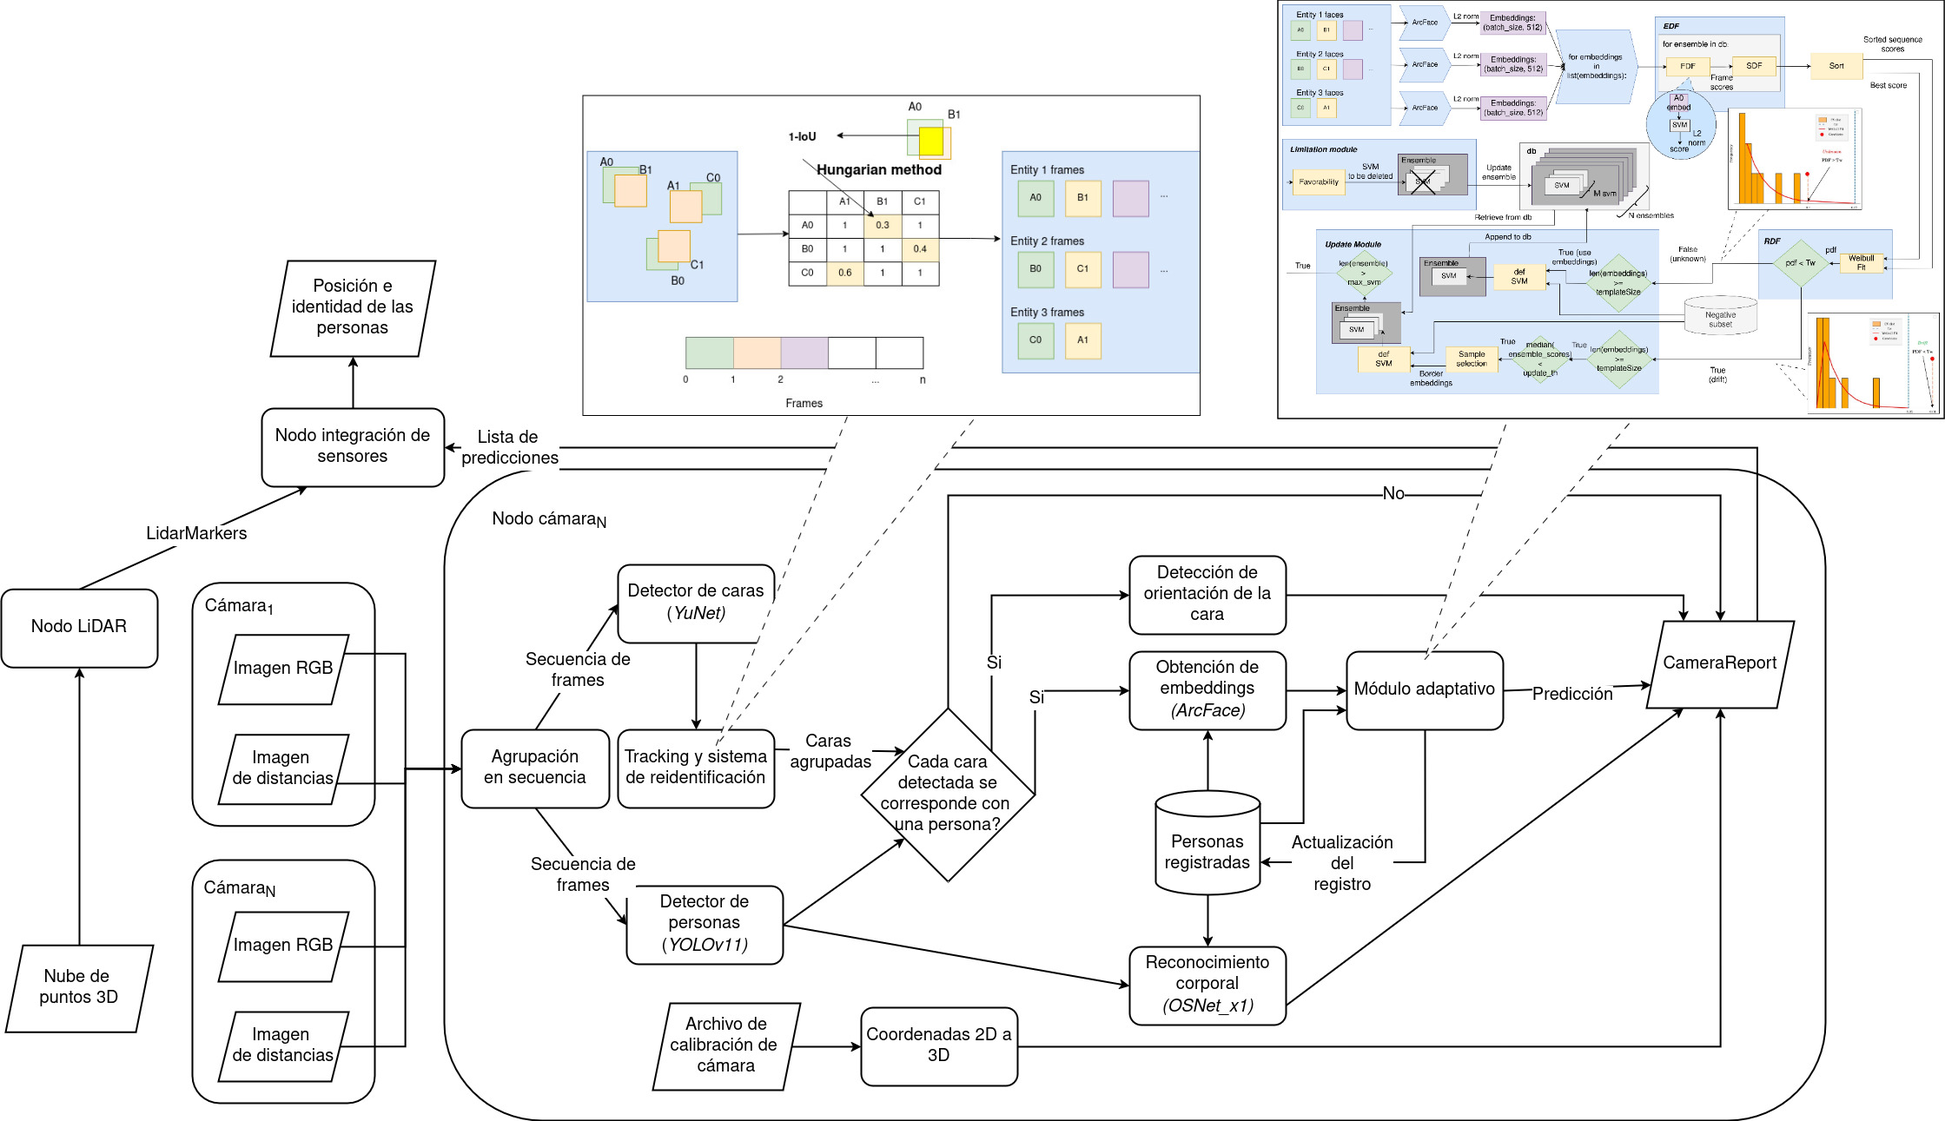
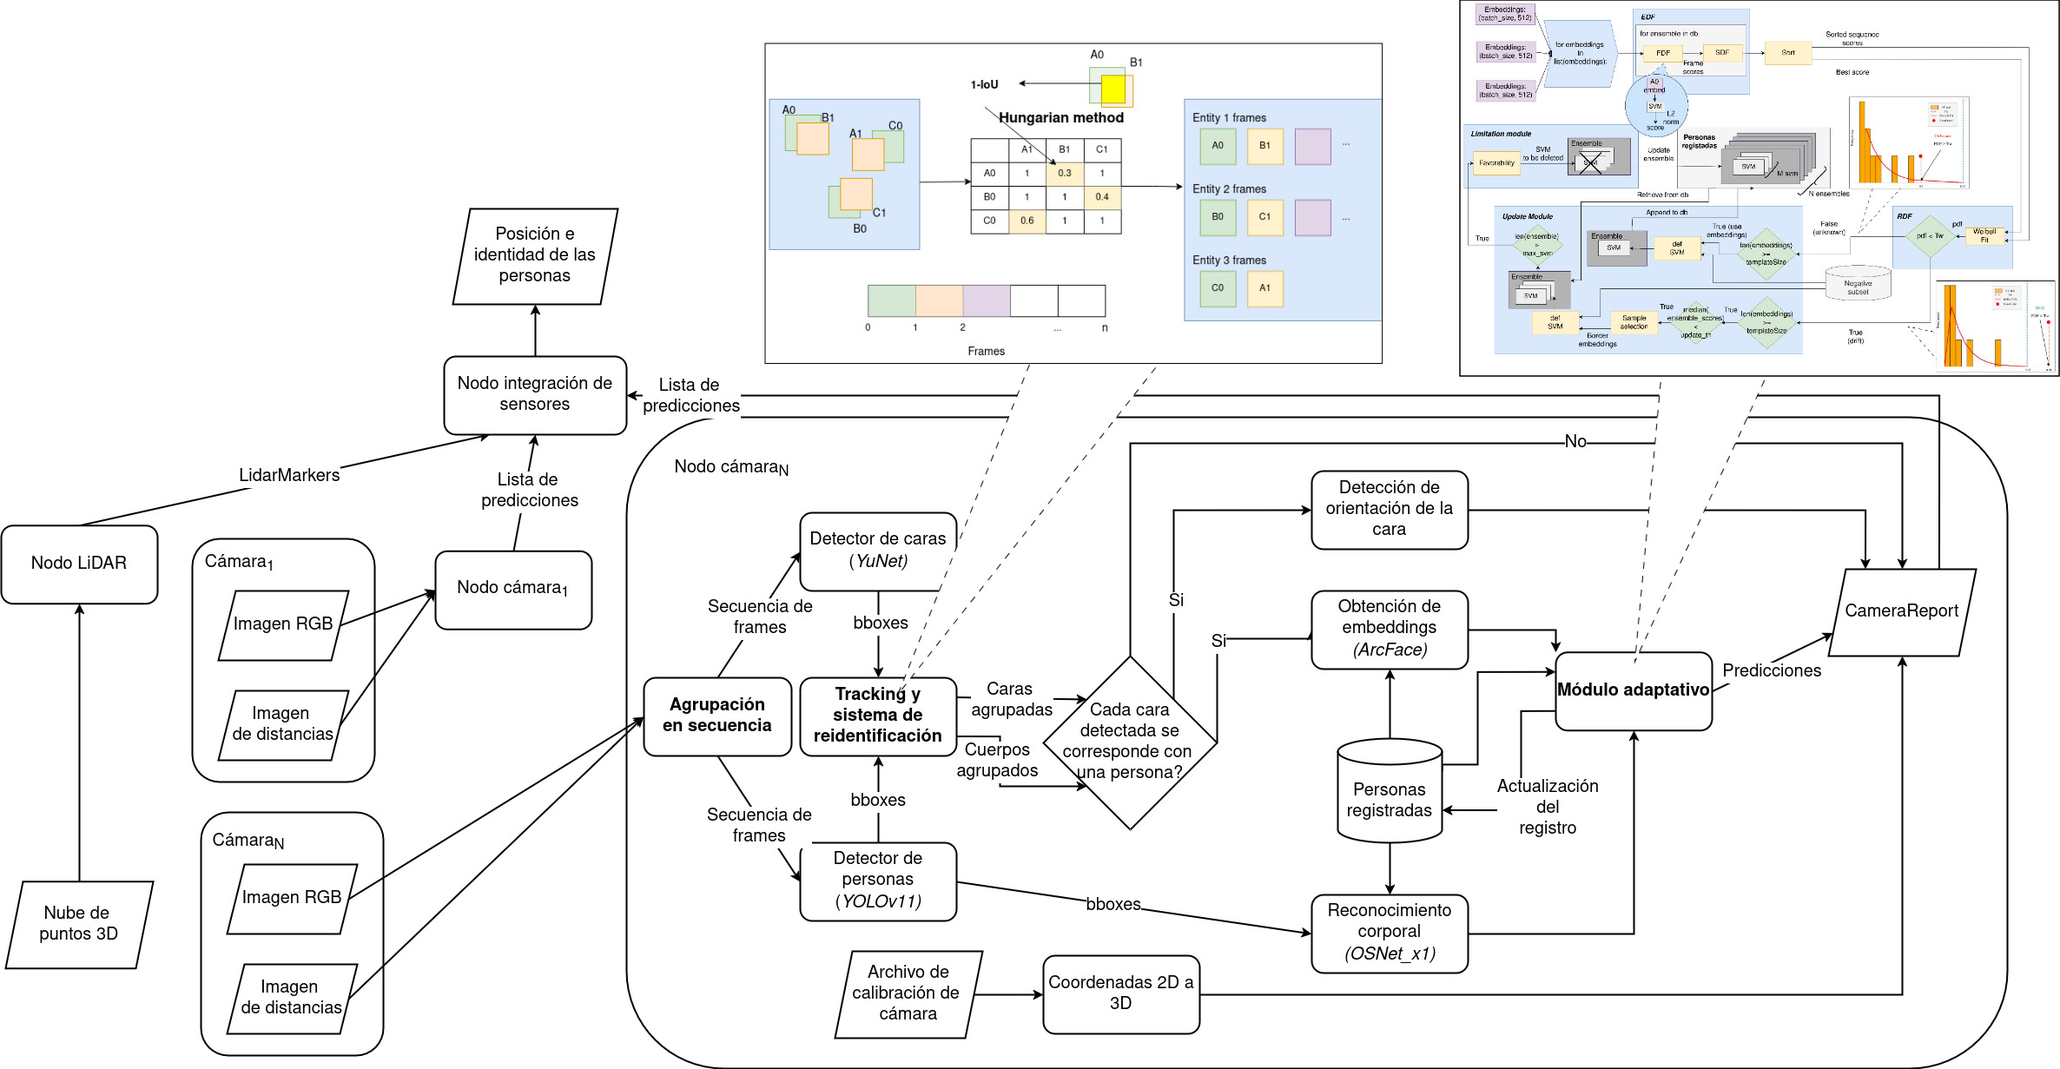
Lit bit of arch

diff --git a/TFM/contenido/5arch.tex b/TFM/contenido/5arch.tex
@@ -1,30 +1,30 @@
 \chapter{Arquitectura del sistema propuesto}
 \label{chap:sysarch}
-\lettrine{E}{n} este capítulo se expone la arquitectura planteada, así como los detalles de su implementación.
+\lettrine{E}{n} este capítulo se expone una idea general de la arquitectura planteada y se comentan sus componentes en detalle.
 
 Este proyecto parte de un sistema que detecta y reconoce personas a partir de la información de diferentes sensores, de forma que se obtienen reconocimientos robustos y persistentes en el tiempo \cite{andrew}.
 
-El funcionamiento se muestra en la figura \ref{fig:finalsys}. Se recibe la información de una o múltiples cámaras, que son procesadas por un nodo que devuelve una lista de predicciones de los individuos en escena(nodo cámara). Cada detección se etiqueta con su posición \acrshort{3d} a partir de la imagen de distancia de la cámara. Los resultados obtenidos de la anterior fase se contrastan con las detecciones realizadas por un modelo que procesa una \gls{pcl} otorgada por un sensor \acrshort{lidar} (nodo \acrshort{lidar}). Finalmente, las salidas de ambos nodos se fusionan para reforzar las predicciones (nodo integración de sensores).
+El funcionamiento se muestra en la figura \ref{fig:finalsys}. Se recibe la información de una o múltiples cámaras, que son procesadas por un nodo que devuelve una lista de predicciones de los individuos en escena (nodo cámara). Cada detección se etiqueta con su posición \acrshort{3d} a partir de la imagen de distancias de la cámara. Los resultados obtenidos de la anterior fase se contrastan con las detecciones realizadas por un modelo que procesa una \gls{pcl} otorgada por un sensor \acrshort{lidar} (nodo \acrshort{lidar}). Finalmente, las salidas de todos los nodos se fusionan para reforzar las predicciones (nodo integración de sensores).
 
-Dentro del nodo cámara se agrupan los frames en secuencias (o videos) con el fin de explotar la coherencia espacio-temporal. Los modelos \acrshort{cnn} de detección reciben dicha secuencia de frames y devuelven los recortes (o \glspl{bbox}) con las detecciones, que son agrupados por individuo aplicando un método de seguimiento (tracking) en el caso de los rostros. Los recortes de caras y cuerpos se transforman en vectores de características a partir de los respectivos modelos de reconocimiento, que a su vez sirven de entrada para el módulo adaptativo, que toma la decisión de reconocimiento y actualiza la base de datos de personas registrada.
+Dentro del nodo cámara se agrupan los frames en secuencias (o videos) con el fin de explotar la coherencia espacio-temporal. Los modelos \acrshort{cnn} de detección reciben dicha secuencia de frames y devuelven los recortes (o \glspl{bbox}) con las detecciones, que son agrupados por individuo aplicando un método de seguimiento (tracking). Los recortes de caras y cuerpos se transforman en vectores de características a partir de los respectivos modelos de reconocimiento, que a su vez sirven de entrada para el módulo adaptativo, que toma la decisión de reconocimiento y actualiza la base de datos de personas registrada.
 
-El módulo adaptativo es el encargado de otorgar el reconocimiento \textit{Open-Set} y/o \textit{Open-World}. El módulo evalúa si la persona detectada en la secuencia es un desconocido o pertenece a la base de datos. En ambos casos, el sistema se actualiza con la nueva información en forma de un nuevo registro en el sistema si es un desconocido o modificando el registro existente ante los cambios de la entidad (lo que se conoce como \textit{\textbf{concept-drift}}).
+El módulo adaptativo es el encargado de otorgar el reconocimiento \textit{Open-Set} y/o \textit{Open-World}. Dicho módulo evalúa si la persona detectada en la secuencia es un desconocido o pertenece a la base de datos. En ambos casos, el sistema se actualiza con la nueva información en forma de un nuevo registro en el sistema si es un desconocido o modificando el registro existente ante los cambios de la entidad (lo que se conoce como \textit{\textbf{concept-drift}}).
 
 Toda la arquitectura vista se ejecuta en el \textit{framework} \acrshort{ros} \cite{ROS}. \acrshort{ros} se encarga de crear los procesos para cada nodo, comprobar su estado, regular la frecuencia a la que trabajan, crear la red en la que dichos procesos intercambian mensajes, entre otros muchos detalles que resultan transparentes para el programador.
 
 \begin{figure}
     \centering
     \includegraphics[width=1\linewidth]{imagenes/FINALSYS.jpg}
-    \caption{Arquitectura general del sistema}
+    \caption{Arquitectura general del sistema, los módulos en negrita se corresponden con los nuevos componentes desarrollados.}
     \label{fig:finalsys}
 \end{figure}
 
 \section{Procesamiento de video}
 \label{sec:video}
-El sistema de partida trabaja a nivel de frame \cite{andrew}, es decir, devuelve reconocimientos de los individuos presentes en una sola imagen. Esta aproximación permite trabajar a altas frecuencias, sin embargo, las predicciones dependen enteramente de la calidad del frame (ejemplo: nivel de borrosidad). En este proyecto se ha optado por trabajar con \textbf{secuencias de frames (o video)}, de esta forma, se devuelve un reconocimiento más robusto basado en el contexto espacio-temporal. Simplemente consiste en procesar un conjunto de frames en un intervalo de tiempo, dicho intervalo de tiempo es ajustable según las necesidades del operador (ejemplo: intervalo de 1 segundo). De los frames del intervalo, se extrae la información de los individuos presentes a partir de un modelo de detección de caras (en este caso YuNet) y/o de cuerpos (YOLO) y se agrupan por cada individuo a lo largo del intervalo, de modo que los frames que no contienen sujetos \textbf{se descartan}.
+El sistema de partida trabaja a nivel de frame \cite{andrew}, es decir, devuelve predicciones de los individuos presentes en una sola imagen. Esta aproximación permite trabajar a altas frecuencias (ejemplo: devolver una predicción acerca de una persona cada 100 ms), sin embargo, las predicciones dependen enteramente de la calidad del frame (ejemplo: nivel de borrosidad). En este proyecto se ha optado por trabajar con \textbf{secuencias de frames (o video)}, de esta forma, se devuelve un reconocimiento más robusto basado en la coherencia espacio-temporal. Simplemente consiste en procesar un conjunto de frames en un intervalo de tiempo, dicho intervalo es ajustable según las necesidades del operador (ejemplo: intervalo de 1 segundo). De los frames del intervalo, se extrae la información de los individuos presentes a partir de un modelo de detección de caras (YuNet) y/o de cuerpos (YOLO) y se agrupan por cada individuo a lo largo del intervalo, de modo que los frames que no contienen sujetos \textbf{se descartan}.
 
 \subsubsection{Seguimiento de entidades}
-En casos como los del \textit{\gls{dataset}} FACE COX \cite{cox}, donde en los videos siempre aparece una sola persona, la agrupación de las entidades es trivial. Sin embargo, en un video donde aparecen múltiples individuos que se entrecruzan, es necesario adoptar un método para seguir el rastro de cada individuo entre frames.
+En casos como los del \textit{\gls{dataset}} FACE COX \cite{cox}, donde en los videos siempre aparece una sola persona, la agrupación de las entidades es trivial. Sin embargo, en un video donde aparecen múltiples individuos que se entrecruzan, es necesario adoptar un método para seguir el rastro de cada persona entre frames.
 
 El \textbf{método húngaro} es un algoritmo que resuelve el problema de la asignación óptima. Dada una matriz de costes en el que cada fila establece una correlación con cada columna, dicho algoritmo buscará la \textbf{asignación óptima}, es decir, de menor coste entre elementos, en este caso, dos frames adyacentes \cite{Hungarian}. La figura \ref{fig:Seq} muestra un ejemplo de funcionamiento del método, que consiste en lo siguiente. Se aplica el modelo de detección pertinente y se generan las \glspl{bbox} del \textbf{frame actual y del siguiente}. Posteriormente, se genera la matriz de costes, donde las \glspl{bbox} del frame actual se encuentran en las filas y las \glspl{bbox} del frame posterior en las columnas. Para cada par de \glspl{bbox} de la matriz, se calcula el \textbf{\acrfull{iou}} \cite{iou}, esta métrica devuelve el porcentaje de solapamiento y similitud entre \glspl{bbox}, de forma que recortes de diferente tamaño (cuando más cerca esté el sujeto de la cámara, más grande será el recorte) den un valor bajo al solaparse (ejemplo: personas que coinciden en la imagen en diferentes distancias). Dadas dos \glspl{bbox} A y B, el \acrshort{iou} se calcula como sigue \ref{eq:iou}. Ya que el método húngaro busca las relaciones de menor coste, es necesario restar el valor obtenido por uno. Tras repetir el método en todos los frames de la secuencia, se agrupa la información de cada persona según el rastro generado por el algoritmo.
 
@@ -72,11 +72,9 @@ En la figura \ref{fig:eucls} se expone un ejemplo real, en el primer frame (figu
     \label{fig:Seq}
 \end{figure}
 
-\section{Módulo de adaptación}
+\section{Módulo adaptativo}
 
-Este módulo recibe la secuencia TODO: tiene a ArcFace contenido.
-
-En la figura \ref{fig:FACESYS} se muestra la arquitectura del sistema con adaptación a los cambios. A continuación, se detallan todos sus componentes.
+Tras agrupar las \glspl{bbox} por individuos y calcular sus vectores, se procesa dicha información para devolver las predicciones y actualizar el conocimiento existente ante los nuevos cambios que puedan surgir (módulo adaptativo figura \ref{fig:finalsys}). En la figura \ref{fig:FACESYS} se muestra la arquitectura de este módulo, cuyos componentes se han diseñado partiendo de \cite{Erik, CESAR} como referencia. El módulo recibe una lista de vectores agrupados por individuos, que se comparan contra la base de datos de personas registradas para averiguar si dichos sujetos pertenecen o no al sistema. La base de datos está compuesta por \textbf{comités (o colecciones) de \acrshort{svm}} por cada individuo. Se ha demostrado que múltiples \acrshort{svm} simples (ejemplo: lineales) como conjunto (\textbf{comité}) \textbf{generalizan mejor} que una única \acrshort{svm} compleja (ejemplo: sigmoide) \cite{malisiewicz2011ensemble}. Los comités de \acrshort{svm} también favorecen la adaptación a los cambios, ya que permiten agregar conocimiento acerca de una entidad entrenando una nueva \acrshort{svm} lineal o eliminar dicho conocimiento descartando la \acrshort{svm} correspondiente. De esta forma, se obtiene una representación de un individuo a partir de un conjunto de modelos ligeros, sin necesidad de reentrenar un modelo complejo desde cero \cite{malisiewicz2011ensemble}.
 
 \begin{figure}
     \centering
@@ -85,6 +83,10 @@ En la figura \ref{fig:FACESYS} se muestra la arquitectura del sistema con adapta
     \label{fig:FACESYS}
 \end{figure}
 
-La mayoría de los componentes se han implementado basándose en \cite{Erik, CESAR}.
+TODO: las \acrshort{svm}, ya que por si solas no son capaces de discernir fuera del conjunto de datos con las que fueron entrenadas (\textit{Closed-Set}), por lo que un dato desconocido se clasificaría erróneamente como una de las clases del entrenamiento \cite{rudd2017extreme}
 
-(TODO: Comités) Múltiples \acrshort{svm} simples (ejemplo: lineales) como conjunto (\textbf{comité}) \textbf{generalizan mejor} que una única \acrshort{svm} compleja (ejemplo: sigmoide) \cite{malisiewicz2011ensemble}. Otras ventajas de los comités son la incorporación de nueva información sin tener que reentrenar las \acrshort{svm}, lo que recorta una cantidad de tiempo significativa durante la operación del sistema, y la flexibilidad, que permite eliminar parte de la información que no es relevante borrando la \acrshort{svm} redundante. Para cada IoI se asigna un comité de \acrshort{svm}, cada \acrshort{svm} del comité se entrena con n muestras de la propia entidad (1 en la idea original \cite{malisiewicz2011ensemble}, 5 adaptado a este proyecto) y \textbf{m-n} muestras negativas (fotogramas de otras entidades), siendo \textbf{m} el número de IoI registrados en el sistema.
+Para tomar la decisión de si un sujeto es o no un desconocido, se ha implementado un algoritmo basado en el teorema estadístico \acrfull{evt} o teorema de Fisher–Tippett–Gnedenko que permite \textbf{detectar extremos} en distribuciones estadísticas. Siendo \textit{f(x)} la distribución de puntuaciones \textbf{que no corresponden con el sujeto}, se analiza si el comité que se corresponde supuestamente con el sujeto es un \textbf{extremo} de la distribución \textit{f(x)}, por lo tanto la entidad se reconoce claramente diferenciada con el resto, en caso contrario, se denota como desconocido. El \acrfull{evt} dicta que la distribución de los valores máximos o mínimos sigue una de las siguientes 3 distribuciones: Gumbel, Frechet, Weibull \cite{rudd2017extreme, scorenorm, Erik}. Gumbel y Frechet son distribuciones \textbf{no acotadas}, mientras que Weibull es una distribución acotada. Para sistemas de reconocimiento que calculan las distancias o similitudes entre puntuaciones (ejemplo: valores devueltos por una \acrshort{svm} para una clase), la distribución de puntos para cada clase sigue una distribución de Weibull, ya que los valores se encuentran acotados \cite{scorenorm}. El \acrshort{evt} otorga un conocimiento robusto, ya que convierte puntuaciones (o scores) concretos de un algoritmo (en este caso las \acrshort{svm}) en probabilidades que siguen una teoría estadística. Esto permite la \textbf{fusión de datos de diferentes fuentes} como nuevas redes de reconocimiento o nuevas cámaras diferentes a las Kinect en el sistema \cite{scorenorm}.
+
+La distribución de Weibull se modela a partir de las puntuaciones devueltas por cada comité (salida de la función EDF en la figura \ref{fig:FACESYS}) \textbf{excepto la mejor puntuación} de todos los \textit{ensembles} (que se corresponde con la más baja). Debido a que la entidad en cuestión solo puede coincidir con un comité, se comprueba si el mejor resultado (o lo que se presupone la entidad de la secuencia) \textbf{es un extremo} respecto de la distribución de puntuaciones no coincidentes (resto de \textit{ensembles}), en caso afirmativo, se asigna la etiqueta del usuario del comité con la mejor puntuación, en caso contrario, el individuo se considera \textbf{desconocido} (no coincide con ningún comité). Para determinar si la puntuación es un extremo, se calcula la probabilidad (\gls{pdf}) del mejor score a partir de la función \gls{pdf} con los parámetros obtenidos de la distribución de Weibull modelada. Si el \gls{pdf} se encuentra por debajo de un umbral (Tw), la puntuación se considera que está \textbf{al extremo de la distribución} \cite{scorenorm}.
+
+Si la predicción es desconocida TODO:... (mirar 6impl)

diff --git a/TFM/contenido/6impl.tex b/TFM/contenido/6impl.tex
@@ -54,10 +54,6 @@ Por cada secuencia de entrada, siendo esta una secuencia de \textit{\glspl{embed
 \subsection{\textit{Recognition Decision Function} (RDF)}
 Esta función determina si la entidad detectada se corresponde a un individuo previamente reclutado o a una entidad \textbf{desconocida}.
 
-(TODO: va en fundamentos) Las \acrshort{svm} sólo pueden discernir dentro del conjunto de datos con las que fueron entrenadas (\textit{Closed-Set}), por lo que un dato desconocido se clasificaría erróneamente como una de las clases del entrenamiento \cite{rudd2017extreme}. Varias investigaciones \cite{rudd2017extreme, scorenorm} y la propia tesis de referencia \cite{Erik} utilizan el \textbf{\acrfull{evt}} o teorema de Fisher–Tippett–Gnedenko para identificar clases no reclutadas. El \acrshort{evt} determina que el conjunto de máximos o mínimos de una muestra sigue una distribución de \textbf{Weibull}. El \acrshort{evt} otorga un conocimiento robusto, ya que convierte scores concretos de un algoritmo (en este caso las \acrshort{svm}) en probabilidades que siguen una teoría estadística. Esto permite la \textbf{fusión de datos de diferentes fuentes} como nuevas redes de reconocimiento o nuevas cámaras diferentes a las Kinect en el sistema.
-
-La distribución de Weibull se modela a partir de las puntuaciones devueltas por cada comité (salida de la función EDF) \textbf{excepto la mejor puntuación} de todos los \textit{ensembles} (que se corresponde con la más baja). Debido a que la entidad en cuestión solo puede coincidir con un comité, se comprueba si el mejor resultado (o lo que se presupone la entidad de la secuencia) \textbf{es un extremo} respecto de la distribución de puntuaciones no coincidentes (resto de \textit{ensembles}), en caso afirmativo, se asigna la etiqueta del usuario del comité con la mejor puntuación, en caso contrario, el individuo se considera \textbf{desconocido} (no coincide con ningún comité). Para determinar si la puntuación es un extremo, se calcula la probabilidad (\gls{pdf}) del mejor score a partir de la función \gls{pdf} con los parámetros obtenidos de la distribución de Weibull modelada. Si el \gls{pdf} se encuentra por debajo de un umbral (Tw), la puntuación se considera que está \textbf{al extremo de la distribución} \cite{scorenorm}.
-
 TODO: El algoritmo compone una función de Weibull ajustando los parámetros de la misma para que converga con la cola de la distribución. Dicha distribución está formada por las distancias de cada puntuación con la mediana, excluyendo la puntuación más baja (siendo teóricamente la puntuación que coincide para la entidad) y las puntuaciones por encima de la mediana. Finalmente, se determina la probabilidad de pertenencia de la puntuación más baja de la distribución, si la probabilidad es lo suficientemente baja como para concluir que no pertenece a la distribución, entonces el reconocimiento es correcto y se asigna la entidad. En caso contrario, se concluye que la entidad es desconocida. Se establece un threshold (Tw, como se muestra en el algoritmo \ref{coud:weib}).
 
 \input{contenido/codes/weib}

diff --git a/TFM/contenido/8tests.tex b/TFM/contenido/8tests.tex
@@ -1,6 +1,10 @@
 \chapter{Pruebas y resultados del sistema completo}
 \lettrine{E}{n} este capítulo se exponen las pruebas y los resultados de rendimiento del sistema final.
 
+Se ha realizado un análisis de la escalabilidad desde 2 hasta 10 cámaras, que es la cifra máxima a la que se ha aspirado sin experimentar una caída grave en el rendimiento. El sistema se ha probado en las distribuciones ROS 1 y ROS 2. Según el dispositivo, solo hay opción a ejecutar una de las distribuciones (ejemplo: dispositivos Jetson). Se discuten los resultados de rendimiento atendiendo a los recursos utilizados.
+
+También se exponen resultados que prueban las capacidades del módulo adaptativo, se realiza un conjunto de pruebas con diferentes valores de parámetros para evaluar su impacto y por qué generan los resultados expuestos. Con el fin de obtener un sistema completamente autónomo, se ha estudiado varios métodos de inicialización de la base de datos, desde un método supervisado hasta uno totalmente controlado por el propio sistema. Se han comparado los resultados entre las diferentes inicializaciones y se ha explicado el motivo de los resultados y de los factores implicados. Debido a que el sistema se adapta a lo largo del tiempo, se han realizado pruebas que midan la consistencia del sistema a lo largo de varias repeticiones del video, para averiguar si este sufre de una caída repentina en el rendimiento por algún fallo del software. Todas las pruebas mencionadas se ejecutan en las modalidades \textit{Open-Set}, que detecta desconocidos y actualiza las entidades existentes y \textit{Open-World}, que realiza las mismas funciones que \textit{Open-Set}, pero con la capacidad de registrar a los desconocidos en el sistema. De este modo, se analizan las diferencias entre ambas modalidades.
+
 \section{Escalabilidad de cámaras}
 
 Esta sección pretende evaluar el techo del sistema al elevar el número de cámaras implicadas. Se inicializa el sistema y se reproduce el fichero rosbag, que nutrirá al sistema con la información generada por las cámaras en tiempo real. Cada predicción generada por el nodo integrador (ver figura \ref{fig:finalsys}) se almacena en memoria y se vuelca en un fichero \acrshort{json} una vez el sistema se detiene (por ejemplo, con un Ctrl-C). Los datos guardados en el fichero \acrshort{json} se procesan y se devuelven los resultados finales en forma de las siguientes métricas:
